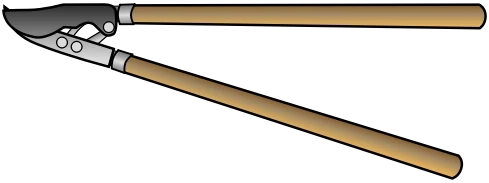
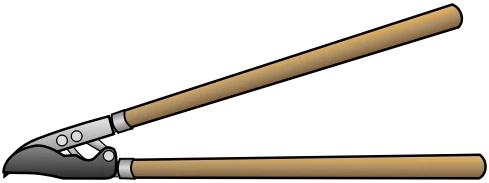
Adjust rotation and scale of .lop images

diff --git a/index.html b/index.html
@@ -39,6 +39,7 @@
         <p>We thoroughly assess the tree and remove only the necessary boughs, branches and deadwood to leave your tree
           with the desired look and shape.
           <br>We leave a healthy amount of growth on the tree so the tree can still grow and flourish. </p>
+          <hr class="divider">
         <img src="./assets/images/bypass-loppers.webp" class="lop1" alt="Image of bypass loppers">
       </div>
       <div class="maintenance bg-color2">
@@ -46,6 +47,7 @@
         <hr class="divider">
         <p>We undertake general maintenance jobs keeping your trees and bushes in a tip top condition.
           <br>We use battery powered tools for the environment and to keep the noise down.</p>
+          <hr class="divider">
         <img src="./assets/images/bypass-loppersflip.webp" class="lop2" alt="Image of bupass loppers">
       </div>
     </div>
@@ -55,6 +57,7 @@
         <hr class="divider">
         <p>We remove and fell trees that are diseased or causing structural damage.
           <br>We avoid the removal (where possible) of all healthy trees.</p>
+          <hr class="divider">
         <img src="./assets/images/chainsaw.webp" class="chain1" alt="Image of a chainsaw">
       </div>
       <div class="stump bg-color4">
@@ -64,6 +67,7 @@
           <br>Due to the nature of some trees, a certain amount of root structure may be left in the ground,
           however we will treat as much as we can so no regrowth appears.
           <br>All treatments used are ecologically safe and non toxic. </p>
+          <hr class="divider">
         <img src="./assets/images/chainsawflip.webp" class="chain2" alt="Image of a chainsaw">
       </div>
     </div>

diff --git a/assets/css/style.css b/assets/css/style.css
@@ -107,7 +107,7 @@
 
 .jobs1 p {
     font-size: larger;
-    margin-top: 10px;
+    margin: 10px 0;
     font-family: Fira Sans, sans-serif;
 }
 
@@ -118,7 +118,7 @@
 
 .jobs2 p {
     font-size: larger;
-    margin-top: 10px;
+    margin: 10px 0;
     font-family: Fira Sans, sans-serif;
 }
 
@@ -162,14 +162,15 @@
 .lop1,
 .lop2 {
     opacity: 0.75;
-    transform: scale(0.75);
+    transform: scale(0.75) rotate(170deg);
+    margin-top: 50px;
 }
 
 .chain1,
 .chain2 {
     opacity: 0.75;
-    transform: scale(0.75);
-    transform: rotate(10deg);
+    transform: scale(0.75) rotate(10deg);
+    margin-top: 20px;
 }
 
 /*----------Contact section----------*/
